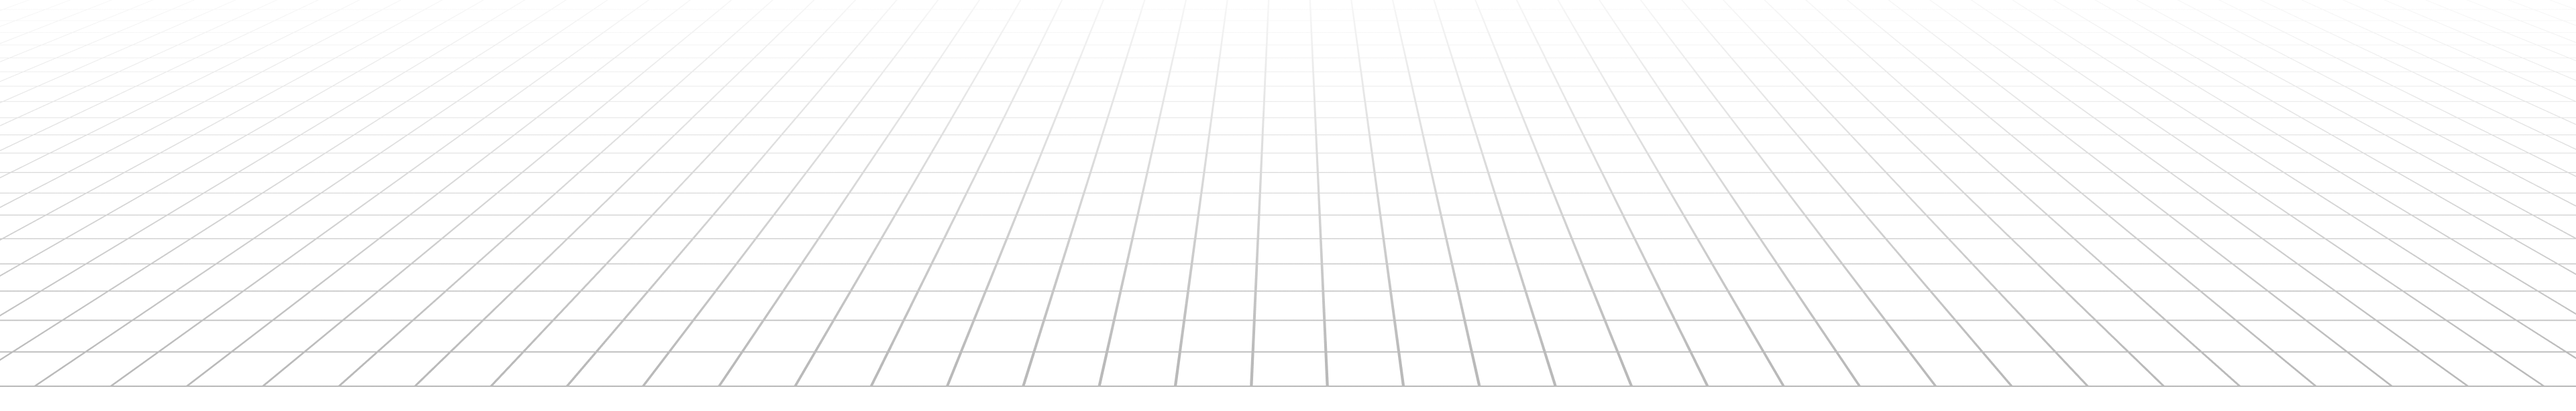
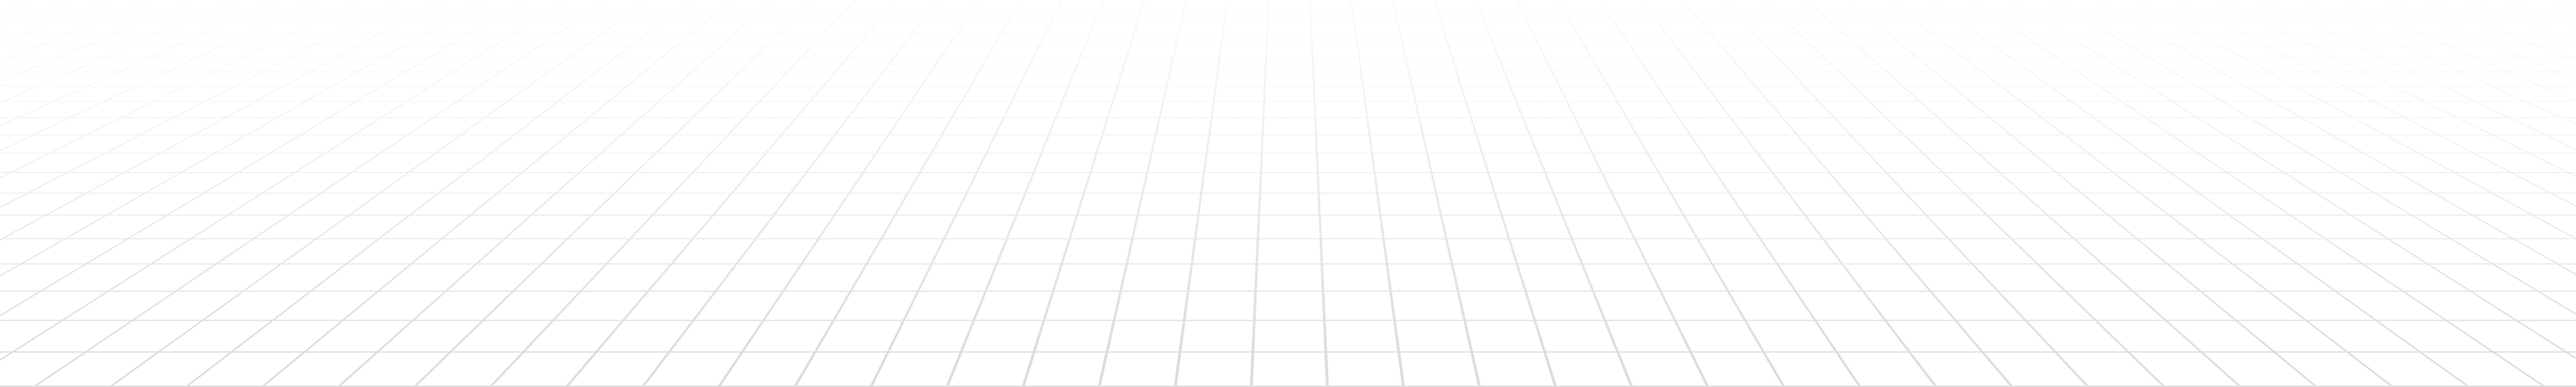
fix: 替换图片

diff --git a/src/adapter/H5Download.vue b/src/adapter/H5Download.vue
@@ -68,7 +68,7 @@
         </div>
       </div>
       <img src="../assets/img/download-img.png" alt="" class="download-img" />
-      <img src="../assets/img/download-bac.png" alt="" class="download-bac" />
+      <img src="../assets/img/download-h5-bac.png" alt="" class="download-bac" />
     </div>
   </section>
 </template>
@@ -114,7 +114,6 @@ const router = useRouter()
   .download-content {
     position: relative;
     padding-top: 0.8rem;
-    padding-bottom: 0.2667rem;
     .download-logo-main {
       font-size: 0.7467rem;
       color: #f5f5f5;
@@ -159,7 +158,6 @@ const router = useRouter()
       width: 90%;
       display: block;
       margin: 0.8rem auto 0;
-      background-color: #000;
     }
     .download-bac {
       width: 100vw;
